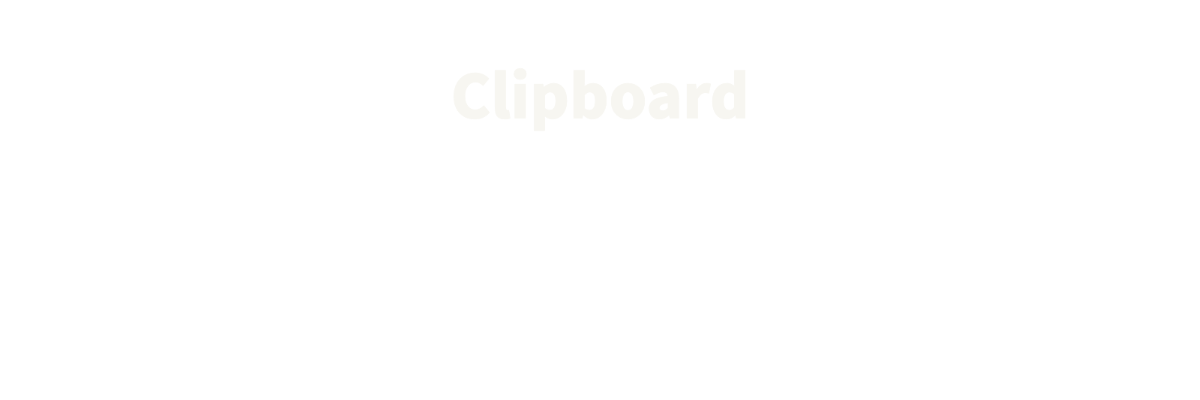
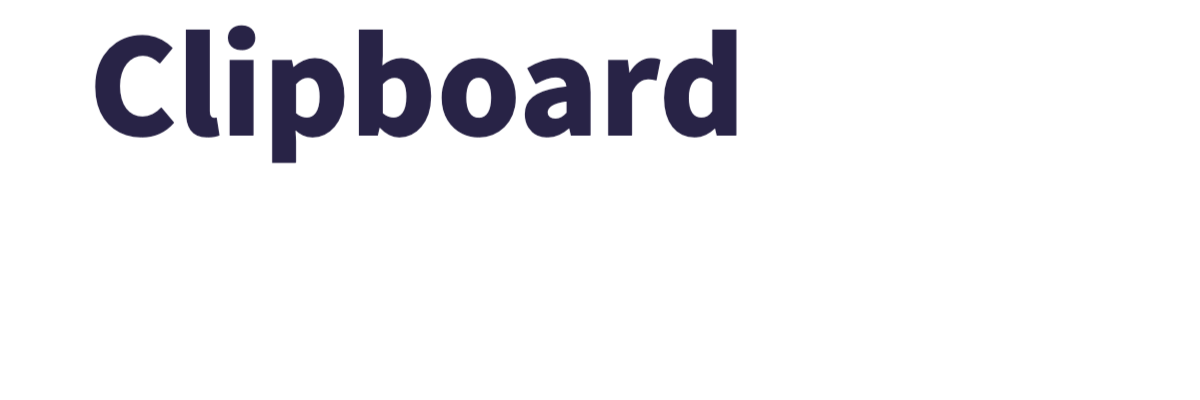
Finishing touches! Pay special attention to images folder, there are headers for SignUp and Editor I just cant figure out how to include them.

Changed region(s): [[0.0617, 0.06, 0.6167, 0.42]]

diff --git a/client/src/components/FormSignUp.js b/client/src/components/FormSignUp.js
@@ -1,61 +1,34 @@
-import React, { useState } from 'react';
 import Button from 'react-bootstrap/Button';
+import Container from 'react-bootstrap/esm/Container';
 import Form from 'react-bootstrap/Form';
-import Modal from 'react-bootstrap/Modal';
+import SignUpHeader from "../images/signup-header.png";
 
 export function SignUpForm() {
-  const [show, setShow] = useState(false);
-
-  const handleClose = () => setShow(false);
-  const handleShow = () => setShow(true);
-
   return (
-    <>
-      <Button variant="primary" onClick={handleShow}>
-        Sign Up
-      </Button>
+    <Container>
+          <img src={SignUpHeader} className="App-logo" alt="logo" height="100px"/>
+           <Form>
+      <Form.Group className="mb-3" controlId="formBasicEmail">
+        <Form.Label>Email address</Form.Label>
+        <Form.Control type="email" placeholder="Enter email" />
+        <Form.Text className="text-muted">
+          We'll never share your email with anyone else.
+        </Form.Text>
+      </Form.Group>
 
-      <Modal show={show} onHide={handleClose}>
-        <Modal.Header closeButton>
-          <Modal.Title>Welcome Back!</Modal.Title>
-        </Modal.Header>
-        <Modal.Body>
-          <Form>
-            <Form.Group className="mb-3" controlId="exampleForm.ControlInput1">
-              <Form.Label>Username</Form.Label>
-              <Form.Control
-                type="email"
-                placeholder="name@example.com"
-                autoFocus
-              />
-            </Form.Group>
-            <Form.Group
-              className="mb-3"
-              controlId="exampleForm.ControlTextarea1"
-            >
-              <Form.Label>Password</Form.Label>
-              <Form.Control as="textarea" rows={1} />
-            </Form.Group>
-            <Form.Group
-              className="mb-3"
-              controlId="exampleForm.ControlTextarea2"
-            >
-              <Form.Label>Email</Form.Label>
-              <Form.Control as="textarea" rows={1} />
-            </Form.Group>
-          </Form>
-        </Modal.Body>
-        <Modal.Footer>
-          <Button variant="secondary" onClick={handleClose}>
-            Close
-          </Button>
-          <Button variant="primary" onClick={handleClose}>
-            Save Changes
-          </Button>
-        </Modal.Footer>
-      </Modal>
-    </>
+      <Form.Group className="mb-3" controlId="formBasicPassword">
+        <Form.Label>Password</Form.Label>
+        <Form.Control type="password" placeholder="Password" />
+      </Form.Group>
+      <Form.Group className="mb-3" controlId="formBasicCheckbox">
+        <Form.Check type="checkbox" label="Check me out" />
+      </Form.Group>
+      <Button variant="primary" type="submit">
+        Let's Go!
+      </Button>
+      </Form>
+      </Container>
   );
 }
 
-render(<SignUpForm />);
+export default SignUpForm;

diff --git a/client/src/components/Dashboard.js b/client/src/components/Dashboard.js
@@ -1,0 +1,38 @@
+import Accordion from "react-bootstrap/Accordion";
+import DashHeader from "../images/dashboard-header.png";
+
+export function Dashboard() {
+  return (
+    <Accordion defaultActiveKey="0">
+      <div>
+        <img src={DashHeader} className="App-logo" alt="logo" height="100px" />
+      </div>
+      <Accordion.Item eventKey="0">
+        <Accordion.Header>About This Project</Accordion.Header>
+        <Accordion.Body>
+          <div>
+            Esse quis ad cillum labore excepteur consequat consequat cillum do
+            proident aute ea aliqua deserunt. Cillum ipsum laborum velit
+            consectetur labore sint eu ex aute ullamco minim adipisicing non.
+            Nisi fugiat ex consequat magna ut tempor nulla deserunt eiusmod
+            officia laborum consectetur. Pariatur non irure sint excepteur duis
+            adipisicing enim ea. Eu cillum ex nostrud incididunt ipsum eu est
+            voluptate qui ex.
+          </div>
+        </Accordion.Body>
+      </Accordion.Item>
+      <Accordion.Item eventKey="1">
+        <Accordion.Header>Portfolios & Contact Info</Accordion.Header>
+        <Accordion.Body>
+          Deserunt eiusmod nulla laborum irure ut sit in enim qui aliqua. Sint
+          velit cupidatat non irure. Exercitation occaecat adipisicing minim qui
+          aute anim et aute amet est veniam mollit. Adipisicing reprehenderit
+          reprehenderit nisi proident fugiat et ad minim commodo esse. Amet anim
+          dolor laborum nulla dolore ea amet dolore culpa incididunt.
+        </Accordion.Body>
+      </Accordion.Item>
+    </Accordion>
+  );
+}
+
+export default Dashboard;

diff --git a/client/src/App.js b/client/src/App.js
@@ -2,7 +2,9 @@ import React from 'react';
 import { BrowserRouter as Router, Routes, Route } from 'react-router-dom';
 import Nav from './components/Nav';
 import Home from './pages/Home';
-import { MockUp } from './pages/MockUp';
+import { Dashboard } from './components/Dashboard.js';
+import { LoginForm } from './components/Login.js';
+import { Editor } from './components/Editor.js';
 import 'bootstrap/dist/css/bootstrap.min.css';
 
 function App() {
@@ -13,7 +15,10 @@ function App() {
           <Nav/>
           <Routes>
               <Route path="/" element={<Home />}/>
-              <Route path="/MockUp" element={<MockUp/>}/>
+              <Route path="/Home" element={<Home />}/>
+              <Route path="/Login" element={<LoginForm />}/>
+              <Route path="/Dashboard" element={<Dashboard/>}/>
+              <Route path="/Editor" element={<Editor/>}/>
             </Routes>
           </div>
         </div>

diff --git a/client/src/pages/Home.js b/client/src/pages/Home.js
@@ -1,12 +1,17 @@
 import React from "react";
-import footer from "../images/GitHub.png";
+import Footer from "../images/footer.png";
 import Accordion from "../components/Accordion";
+import HomeHeader from "../images/homeBlue.png";
 import { Donate } from "../components/Donate";
 
 
 const Home = () => {
   return (
     <main>
+      <div>
+      <img src={HomeHeader} className="App-logo" alt="logo" height="100px"/>
+      </div>
+    
       <div>
         <Accordion />
       </div>
@@ -16,7 +21,7 @@ const Home = () => {
       </div>
 
       <div>
-        <img src={footer} className="App-logo" alt="logo" width="100%" />
+        <img src={Footer} className="App-logo" alt="logo" width="100%" />
       </div>
     </main>
   );

diff --git a/client/src/components/Login.js b/client/src/components/Login.js
@@ -1,11 +1,11 @@
 import Button from 'react-bootstrap/Button';
 import Container from 'react-bootstrap/esm/Container';
 import Form from 'react-bootstrap/Form';
-import loginImage from "../images/loginImage.png";
+import LoginHeader from "../images/login-header.png";
 export function LoginForm() {
   return (
     <Container>
-      <img src={loginImage} className="App-logo" alt="logo" height="100px"/>
+      <img src={LoginHeader} className="App-logo" alt="logo" height="100px"/>
       <Form>
       <Form.Group className="mb-3" controlId="formBasicEmail">
         <Form.Label>Email address</Form.Label>

diff --git a/client/src/components/Nav.js b/client/src/components/Nav.js
@@ -11,8 +11,10 @@ function BasicExample() {
         <Navbar.Toggle aria-controls="basic-navbar-nav" />
         <Navbar.Collapse id="basic-navbar-nav">
           <Nav className="me-auto">
-            <Nav.Link href="/Home">Login</Nav.Link>
+            <Nav.Link href="/Login">Login</Nav.Link>
             <Nav.Link href="/FormSignUp">Sign Up</Nav.Link>
+            <Nav.Link href="/Dashboard">Dashboard</Nav.Link>
+            <Nav.Link href="/Editor">Editor</Nav.Link>
           </Nav>
         </Navbar.Collapse>
       </Container>

diff --git a/client/src/components/Editor.js b/client/src/components/Editor.js
@@ -3,7 +3,7 @@ import CodeEditor from "@uiw/react-textarea-code-editor";
 export function Editor() {
   const [code, setCode] = useState(`function add(a, b) {\n  return a + b;\n}`);
   return (
-    <CodeEditor
+       <CodeEditor
       value={code}
       language="js"
       placeholder="Please enter JS code."
